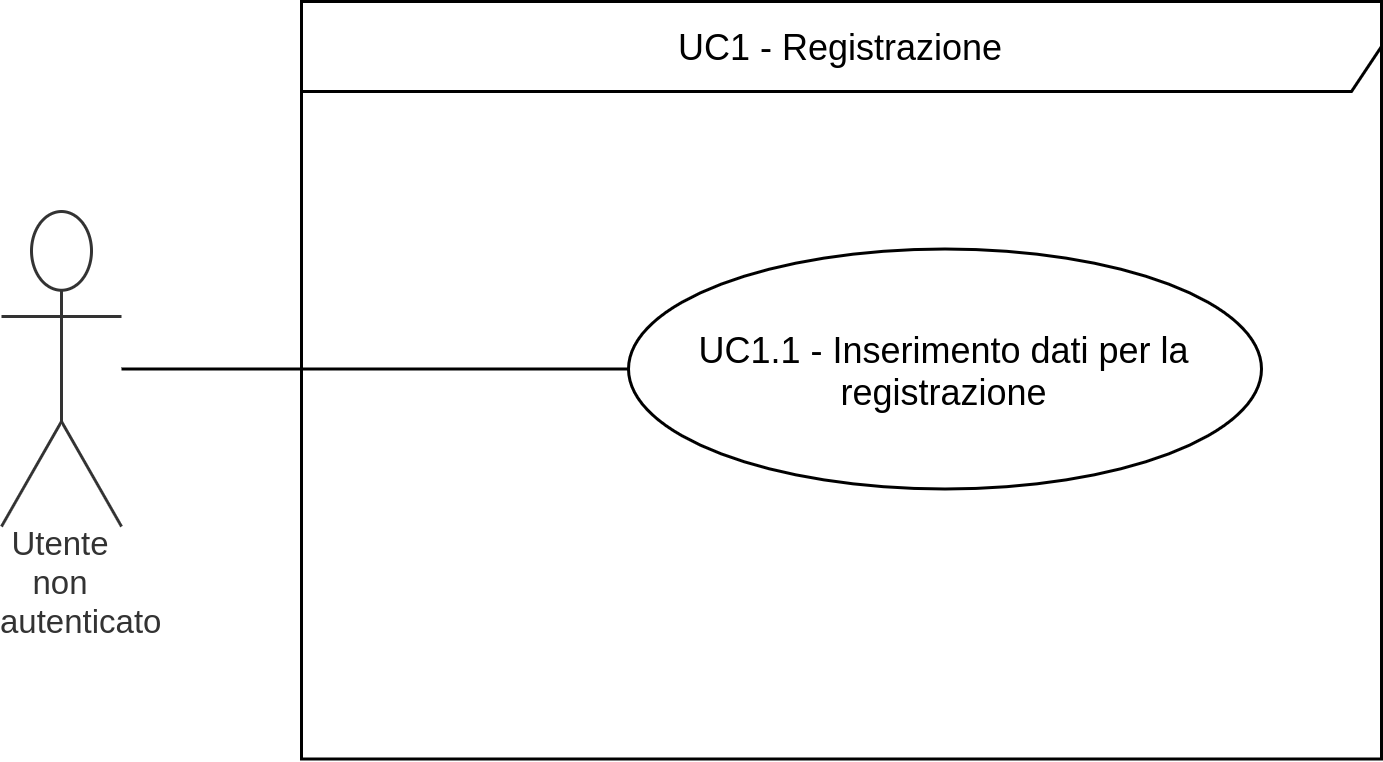
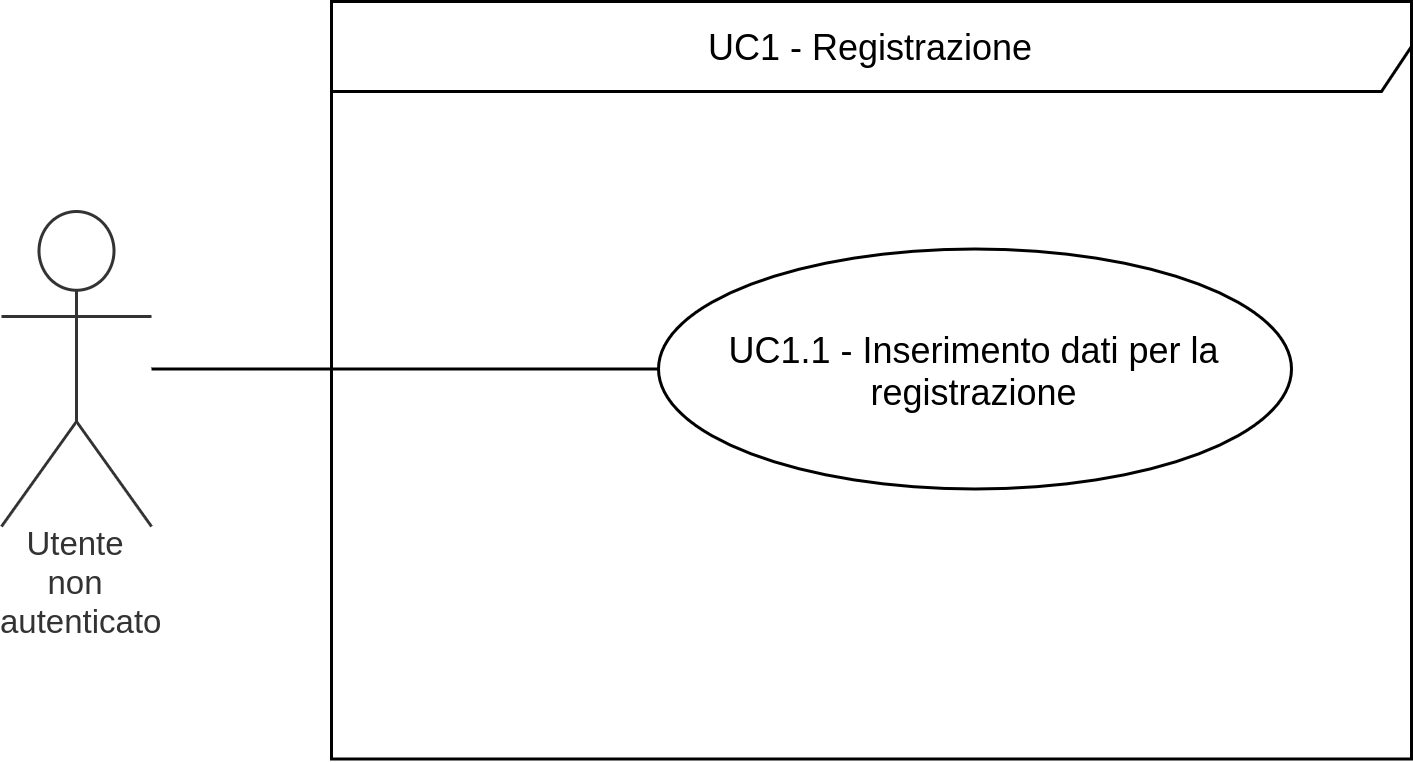
Aggiunti uml accesso alla piattaforma

diff --git a/DocumentiPubblici/AnalisiDeiRequisiti/Sezioni/CasiUso/AccessoAllaPiattaforma.tex b/DocumentiPubblici/AnalisiDeiRequisiti/Sezioni/CasiUso/AccessoAllaPiattaforma.tex
@@ -42,6 +42,14 @@ L'utente non autenticato che non dispone di credenziali può registrarsi e acced
 
 \subUC{Inserimento dati per la registrazione}
 \label{registrazione.modulo}
+
+\begin{figure}[H]
+	\centering
+	\includegraphics[scale=0.6]{Immagini/DiagrammiUC/InserimentoDatiRegistrazione.png}
+	\caption{Diagramma di \actualSubUC: Inserimento dati per la registrazione}
+	\label{fig:RegistrazionePiattaforma}
+\end{figure}
+
 L'utente compila il modulo per proseguire con la registrazione presso la piattaforma.
 \begin{itemize}
 	\item \textbf{Attori primari:} utente non autenticato;
@@ -176,12 +184,12 @@ L'utente non autenticato inserisce la conferma della password con la quale vuole
 \UC{Autenticazione nella piattaforma con credenziali venditore}
 \label{autenticazione-venditore}
 
-% \begin{figure}[H]
-%     \centering
-%     \includegraphics[scale=0.6]{Immagini/DiagrammiUC/AccessoVenditore.png}
-%     \caption{Diagramma di \actualUC: Autenticazione nella piattaforma con credenziali venditore} 
-%     \label{fig:LoginVenditore}
-% \end{figure}
+\begin{figure}[H]
+    \centering
+    \includegraphics[scale=1]{Immagini/DiagrammiUC/AutenticazioneVenditore.png}
+    \caption{Diagramma di \actualUC: Autenticazione nella piattaforma con credenziali venditore} 
+    \label{fig:AutenticazioneVenditore}
+\end{figure}
 
 L'utente non autenticato che dispone di credenziali venditore può accedere nella piattaforma usando l'e-mail e la password.
 \begin{itemize}
@@ -211,6 +219,13 @@ L'utente non autenticato che dispone di credenziali venditore può accedere nell
 
 \subUC{Inserimento dati per l'autenticazione}
 \label{autenticazione-venditore.modulo}
+
+\begin{figure}[H]
+	\centering
+	\includegraphics[scale=0.8]{Immagini/DiagrammiUC/InserimentoDatiAutenticazione.png}
+	\caption{Diagramma di \actualSubUC: Inserimento dati per l'autenticazione}
+	\label{fig:InserimentoDatiAutenticazione}
+\end{figure}
 
 L'utente compila il modulo per proseguire con l'autenticazione presso la piattaforma.
 \begin{itemize}
@@ -268,12 +283,12 @@ L'utente non autenticato inserisce una password.
 \UC{Autenticazione nella piattaforma con credenziali acquirente}
 \label{autenticazione-acquirente}
 
-% \begin{figure}[H]
-% 	\centering
-% 	\includegraphics[scale=0.6]{Immagini/DiagrammiUC/AccessoAcquirente.png}
-% 	\caption{Diagramma di \actualUC: Autenticazione nella piattaforma con credenziali acquirente} 
-% 	\label{fig:LoginAcquirente}
-% \end{figure}
+\begin{figure}[H]
+    \centering
+    \includegraphics[scale=1]{Immagini/DiagrammiUC/AutenticazioneAcquirente.png}
+    \caption{Diagramma di \actualUC: Autenticazione nella piattaforma con credenziali acquirente} 
+    \label{fig:AutenticazioneAcquirente}
+\end{figure}
 
 L'utente non autenticato che dispone di credenziali acquirente può accedere nella piattaforma usando l'e-mail e la password.
 \begin{itemize}
@@ -306,12 +321,12 @@ L'utente non autenticato che dispone di credenziali acquirente può accedere nel
 \UC{Password dimenticata}
 \label{password-dimenticata}
 
-% \begin{figure}[H]
-%     \centering
-%     \includegraphics[scale=0.2]{Immagini/DiagrammiUC/UC1.3PasswordDimenticata.png}
-%     \caption{Diagramma di \actualUC: Password dimenticata}
-%     \label{fig:PasswordDimenticata}
-% \end{figure}
+\begin{figure}[H]
+    \centering
+    \includegraphics[scale=0.8]{Immagini/DiagrammiUC/PasswordDimenticata.png}
+    \caption{Diagramma di \actualUC: Password dimenticata} 
+    \label{fig:PasswordDimenticata}
+\end{figure}
 
 L'utente che dispone di credenziali si è dimenticato la propria password e la vuole cambiare.
 \begin{itemize}
